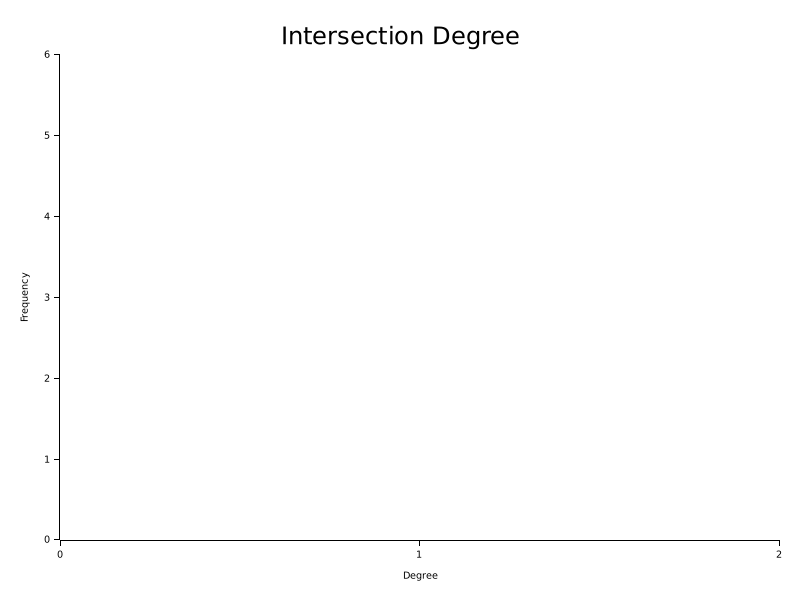
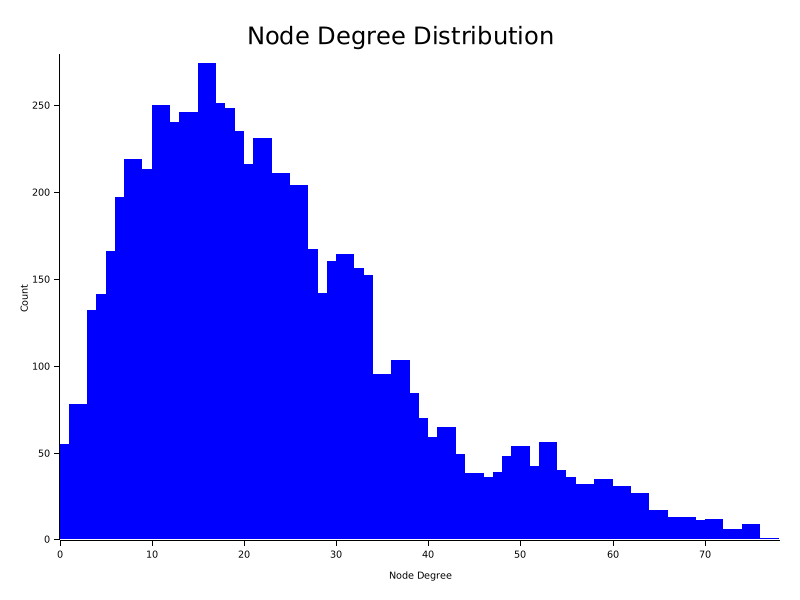
edited degree histogram rendering to make bars visable

diff --git a/src/visualization.rs b/src/visualization.rs
@@ -3,43 +3,60 @@ use std::collections::HashMap;
 
 pub fn plot_degree_histogram(
     degree_map: &HashMap<usize, usize>,
-    output_path:&str, 
-) -> Result<(), Box<dyn std::error::Error>>{
-    let mut frequency = HashMap::new();
-    for &d in degree_map.values() {
-        *frequency.entry(d).or_insert(0)+=1;
+    output_path: &str,
+) -> Result<(), Box<dyn std::error::Error>> {
+    if degree_map.is_empty() {
+        eprintln!("⚠ No degree data to plot.");
+        return Ok(());
     }
 
-    let mut degree_counts: Vec<(usize, usize)> = frequency.into_iter().collect();
-    degree_counts.sort_by_key(|&(deg, _)| deg);
+    // Count frequency of each degree
+    let mut degree_counts: HashMap<usize, usize> = HashMap::new();
+    for &deg in degree_map.values() {
+        *degree_counts.entry(deg).or_insert(0) += 1;
+    }
+
+    let mut sorted: Vec<_> = degree_counts.into_iter().collect();
+    sorted.sort_by_key(|&(deg, _)| deg);
+
+    if sorted.is_empty() {
+        eprintln!("⚠ Degree frequency list is empty.");
+        return Ok(());
+    }
+
+    let x_max = sorted.iter().map(|&(deg, _)| deg).max().unwrap_or(1);
+    let y_max = sorted.iter().map(|&(_, count)| count).max().unwrap_or(1);
 
     let root = BitMapBackend::new(output_path, (800, 600)).into_drawing_area();
     root.fill(&WHITE)?;
 
-    let x_max = degree_counts.iter().map(|&(deg, _)| deg).max().unwrap_or(1);
-    let y_max = degree_counts.iter().map(|&(_, count)| count).max().unwrap_or(1);
+    println!("Degree Frequency Distribution:");
+    for (deg, count) in &sorted {
+        println!("Degree {}: {} nodes", deg, count);
+    }
 
+    
     let mut chart = ChartBuilder::on(&root)
-        .caption("Intersection Degree", ("sans-serif", 30))
+        .caption("Node Degree Distribution", ("sans-serif", 30))
         .margin(20)
         .x_label_area_size(40)
         .y_label_area_size(40)
         .build_cartesian_2d(0usize..(x_max + 1), 0usize..(y_max + 5))?;
-    
+
     chart
         .configure_mesh()
-        .x_desc("Degree")
-        .y_desc("Frequency")
+        .x_desc("Node Degree")
+        .y_desc("Count")
         .disable_mesh()
         .draw()?;
+
     chart.draw_series(
-        degree_counts.iter().map(|&(deg, count)| {
-             Rectangle::new(
-                [(deg, 0), (deg, count)],
-                BLUE.mix(0.7).filled(),
-            )
+        sorted.iter().map(|&(deg, count)| {
+            Rectangle::new([(deg.saturating_sub(1), 0), (deg + 1, count)], BLUE.filled())
         }),
     )?;
-    root.present()?;
+
+    root.present()?; 
+    println!("✅ Histogram saved to {}", output_path);
     Ok(())
 }

diff --git a/src/main.rs b/src/main.rs
@@ -13,7 +13,7 @@ fn main() -> Result<(), Box<dyn Error>> {
 
     let file_path = "data/crash_data.csv";
     let bin_precision = 25.0; 
-    let max_connection_dist = 100.0; //parameteres for graphing 
+    let max_connection_dist = 10.0; //parameteres for graphing 
 
     let crash_data = load_crash_data(file_path)?;
     println!("Loaded {} crash records.", crash_data.len());
@@ -28,6 +28,7 @@ fn main() -> Result<(), Box<dyn Error>> {
     );
 
     let degrees = compute_degree_distribution(&graph);
+    println!("Computed degrees for {} nodes", degrees.len());
     plot_degree_histogram(&degrees, "histogram_output/degree_histogram.png")?;
 
     println!("Duration {:.2?}", start.elapsed());
